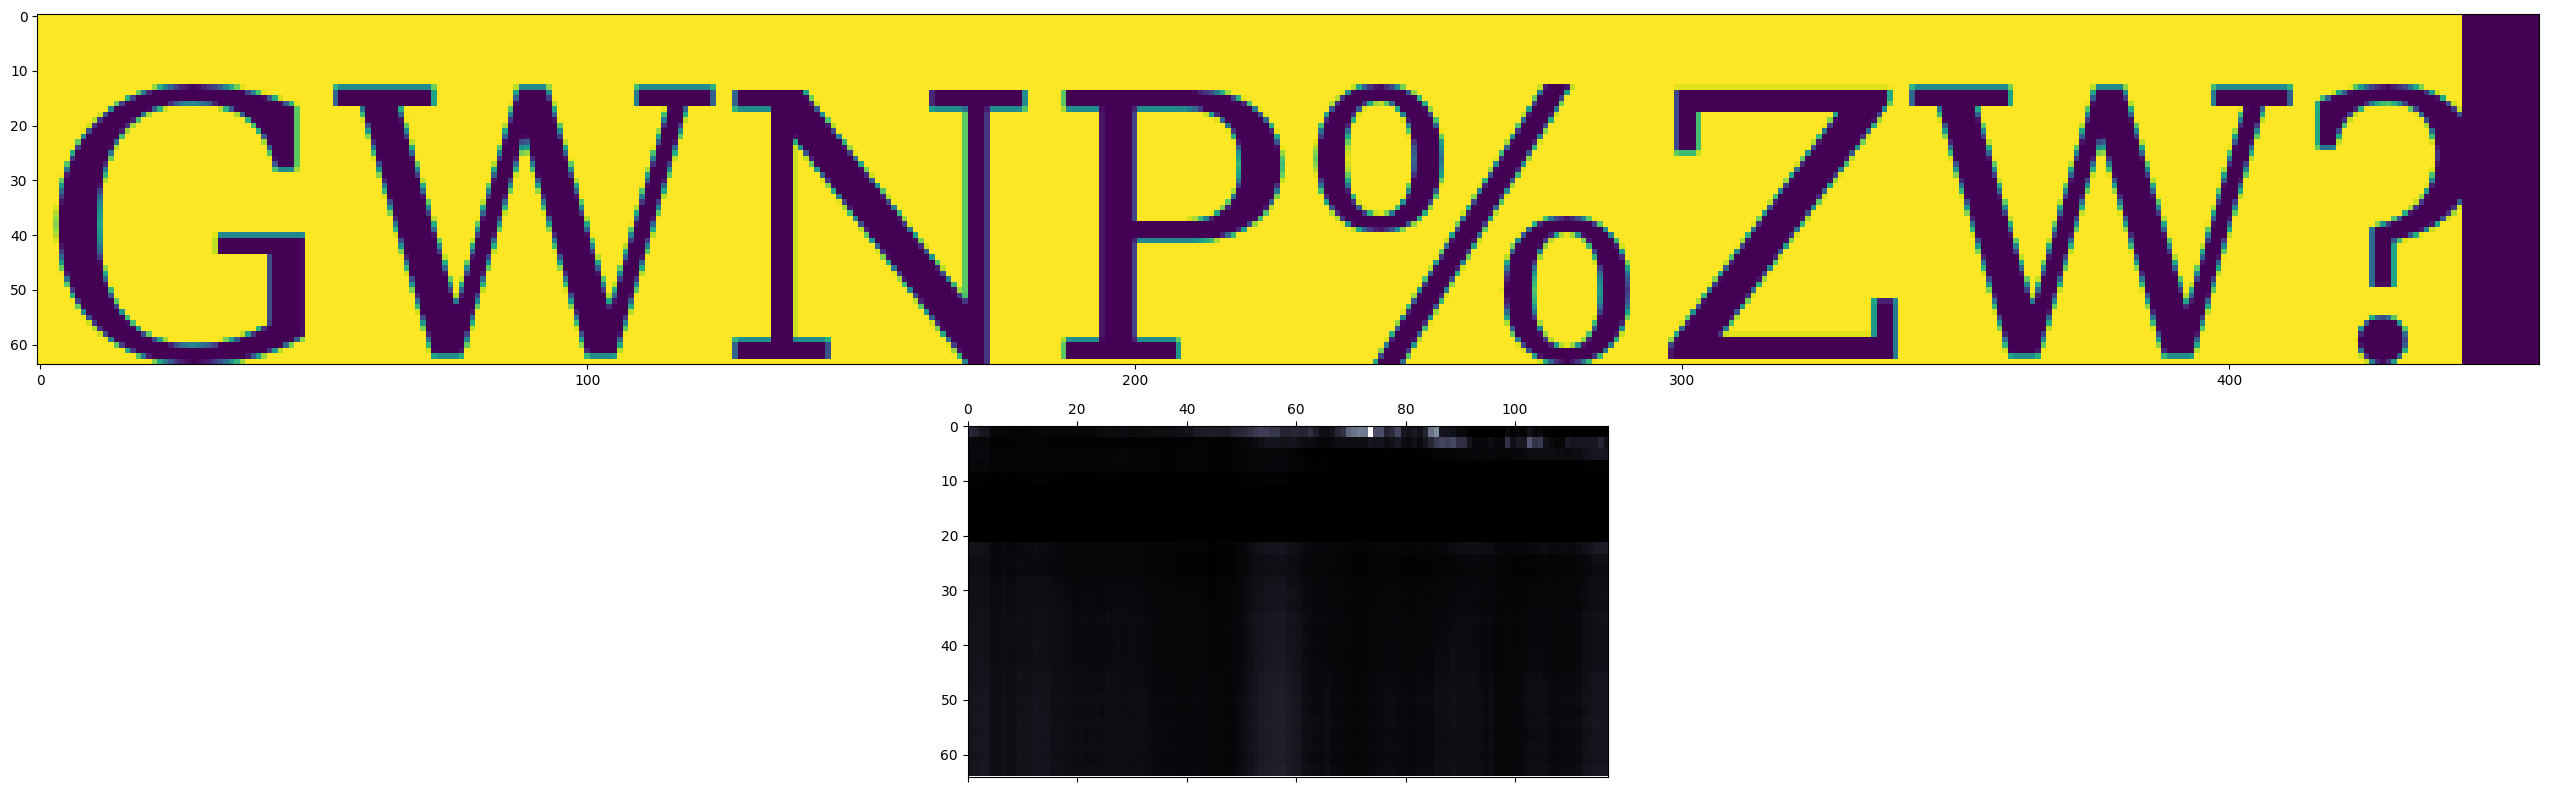
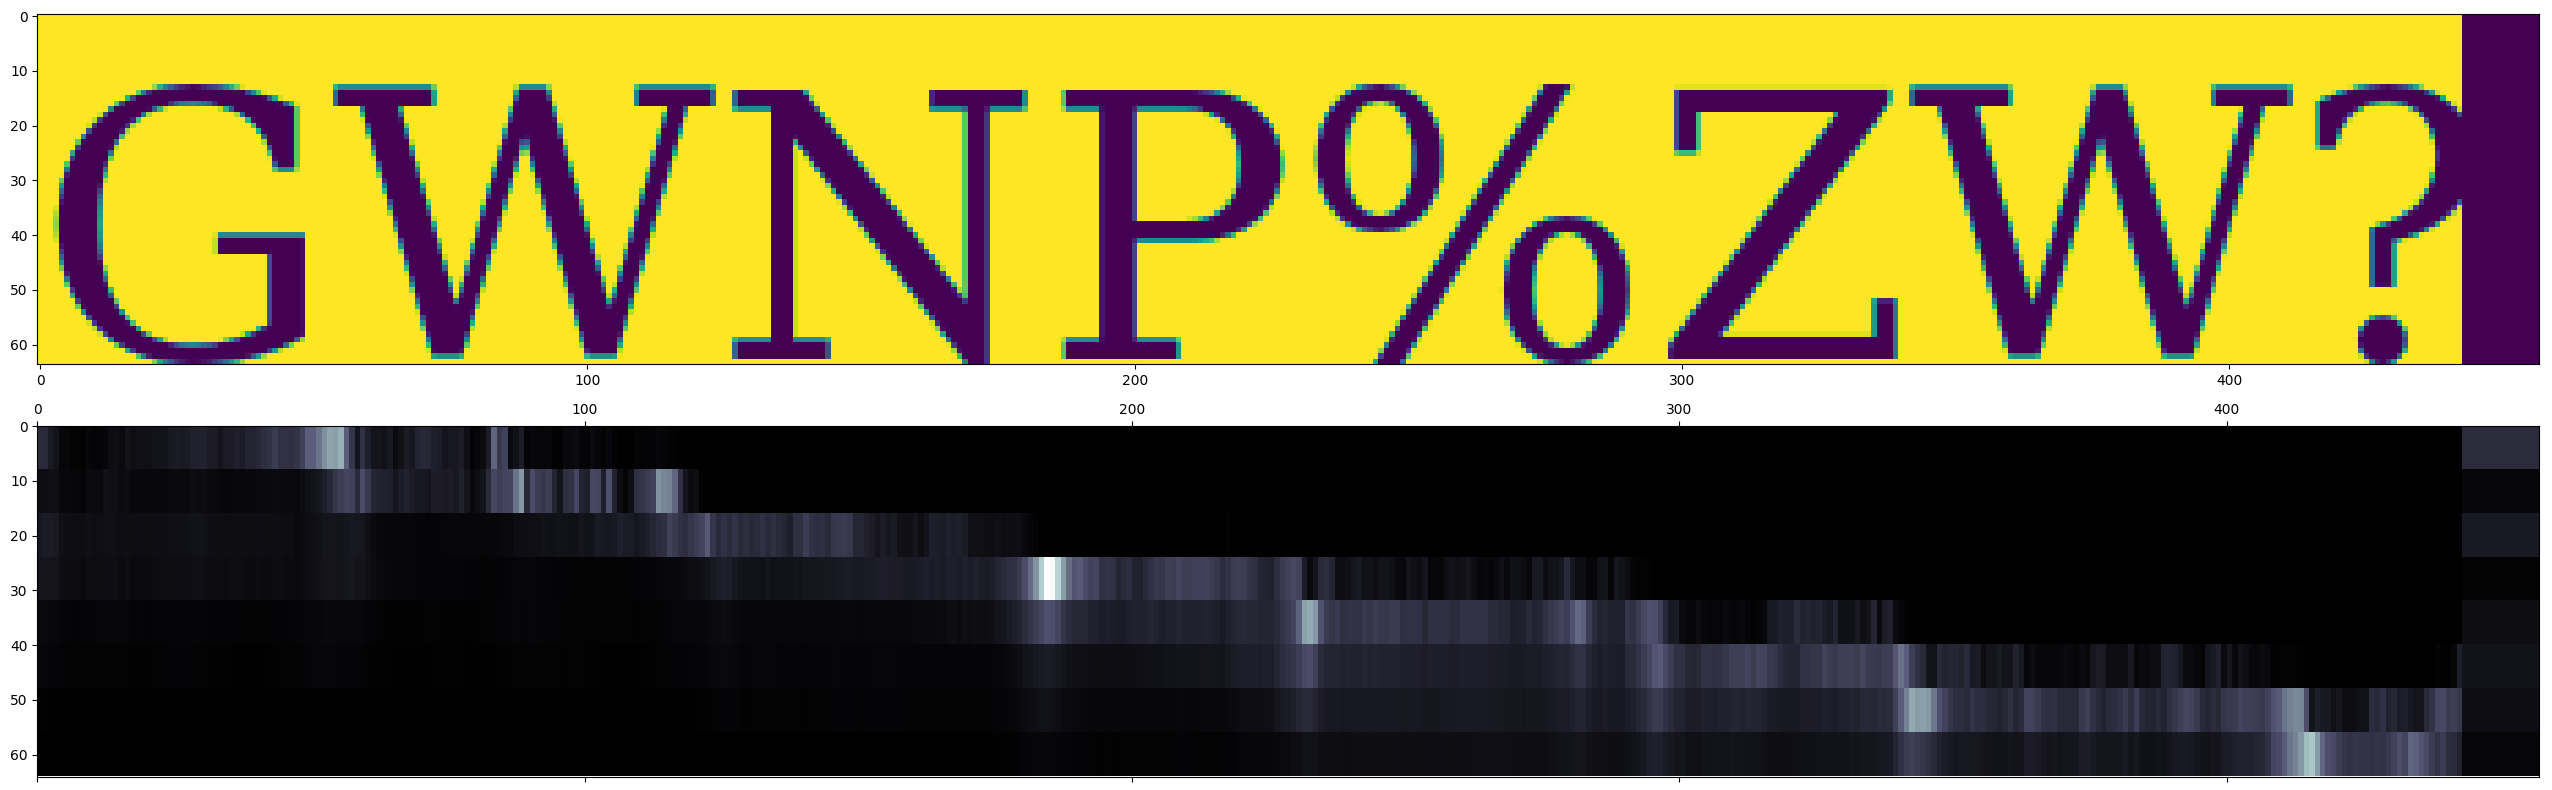
Adding attention viz

diff --git a/main.py b/main.py
@@ -90,23 +90,19 @@ def visualize_attention(inputs, truths, preds, attn):
     H, W = inputs.size()
     plt.imshow(inputs.transpose(0, 1))
     plt.subplot(212)
-    def pad_begins_at(sequence):
-        for i, v in enumerate(sequence):
-            if v == '<pad>':
-                return i
-        return len(sequence)
 
-    non_pad = pad_begins_at(dataset.decode(preds))
-    attn = attn[:, :non_pad]
+    non_pad = dataset.decode(preds).find("</s>")
+    attn = attn[:non_pad, :]
     B, H = attn.size()
     cax = plt.matshow(attn, cmap='bone', fignum=False, aspect='equal', extent=(0, H, W, 0))
     plt.subplots_adjust(hspace=0.0, wspace=0.0)
     plt.tight_layout()
     return plt
 
-for i in range(len(reporter)):
+samples = 6
+for i in range(samples):
     inputs, truths, preds, attns = reporter[i]
     plt = visualize_attention(inputs, truths, preds, attns)
     name = dataset.decode(preds).replace("<pad>", "").replace("</s>", "")
     plt.savefig('outputs/{}.png'.format(i), bbox_inches='tight')
-    print('[{}](outputs/{}.png]'.format(name, i))
+    print('![{}](outputs/{}.png)'.format(name, i))

diff --git a/README.md b/README.md
@@ -1,24 +1,15 @@
 # seq2seq-ocr
 
+![s&ZSU5btFU](outputs/0.png)
 
+![GWMP%ZW?](outputs/1.png)
 
+![\^z<M"+L=H](outputs/2.png)
 
-![s&ZSU5otFU](outputs/0.png  ![GWNP%ZW?](outputs/1.png    ![^w<"#LL=H](outputs/2.png]
+![.#~C?<1~-v](outputs/3.png)
 
-![s&ZSU5otFU](outputs/0.png  ![GWNP%ZW?](outputs/1.png    ![^w<"#LL=H](outputs/2.png]
+![tum<~4#vL](outputs/4.png)
 
-![.%~C?<1~>v](outputs/3.png  ![tmn<~4#vL](outputs/4.png   ![.bOP7<d89e](outputs/5.png]
-
-![FxSdXU4e#](outputs/6.png   ![OH%7BHf=X](outputs/7.png   ![M&^77K+F](outputs/8.png]
-
-![VB~tXrZ"M](outputs/9.png   !["wEe28KCZ](outputs/10.png  ![bnN?`:Mwh](outputs/11.png]
-
-![-DeSNoZwc`](outputs/12.png]
-![U~?M3<41](outputs/13.png]
-![viHA* %am](outputs/14.png]
-![UFNE6zzet](outputs/15.png]
-![9:~r9%8YS](outputs/16.png]
-![DDa<XZcX](outputs/17.png]
-![Q&d~#qO?X?](outputs/18.png]
+![.bOP7<d89e](outputs/5.png)
 
 
